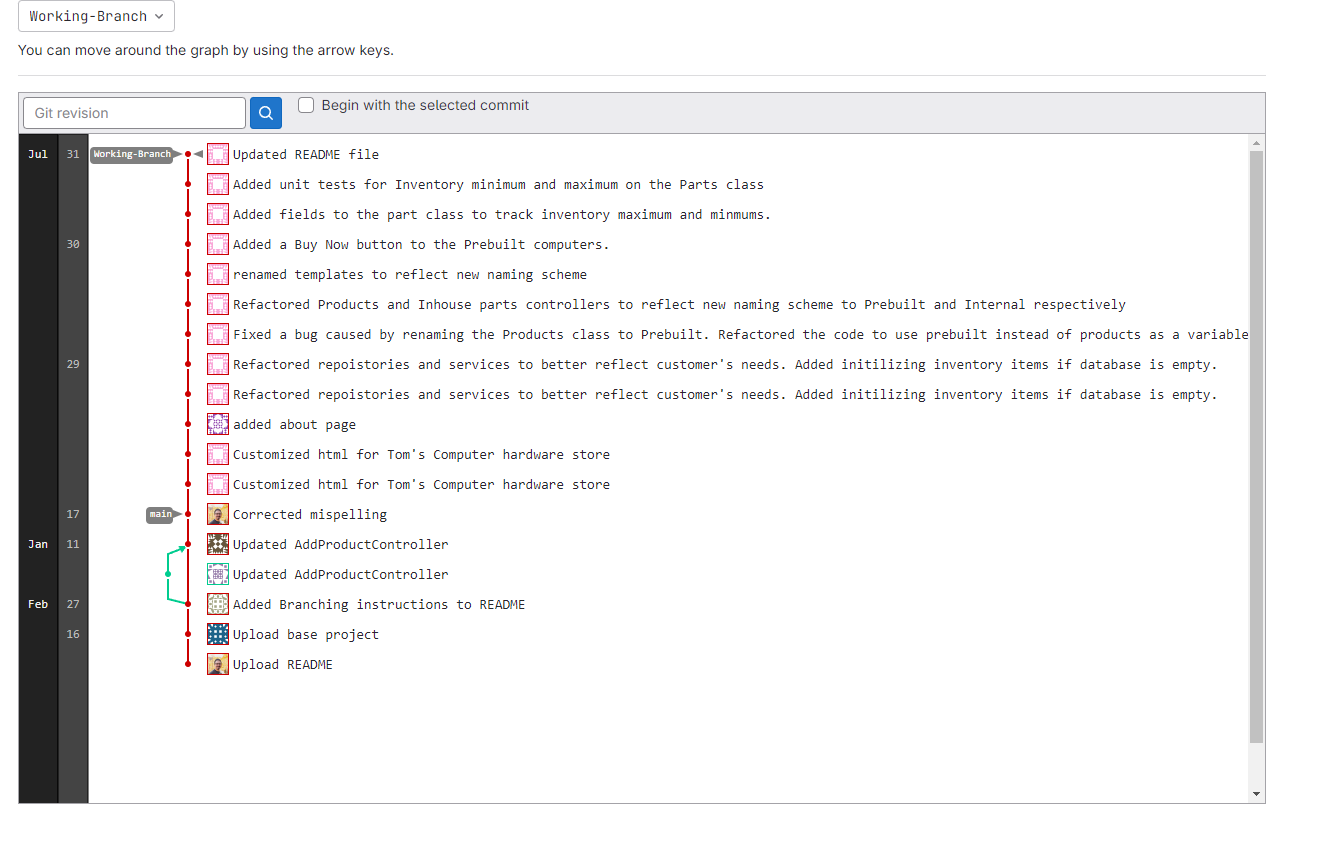
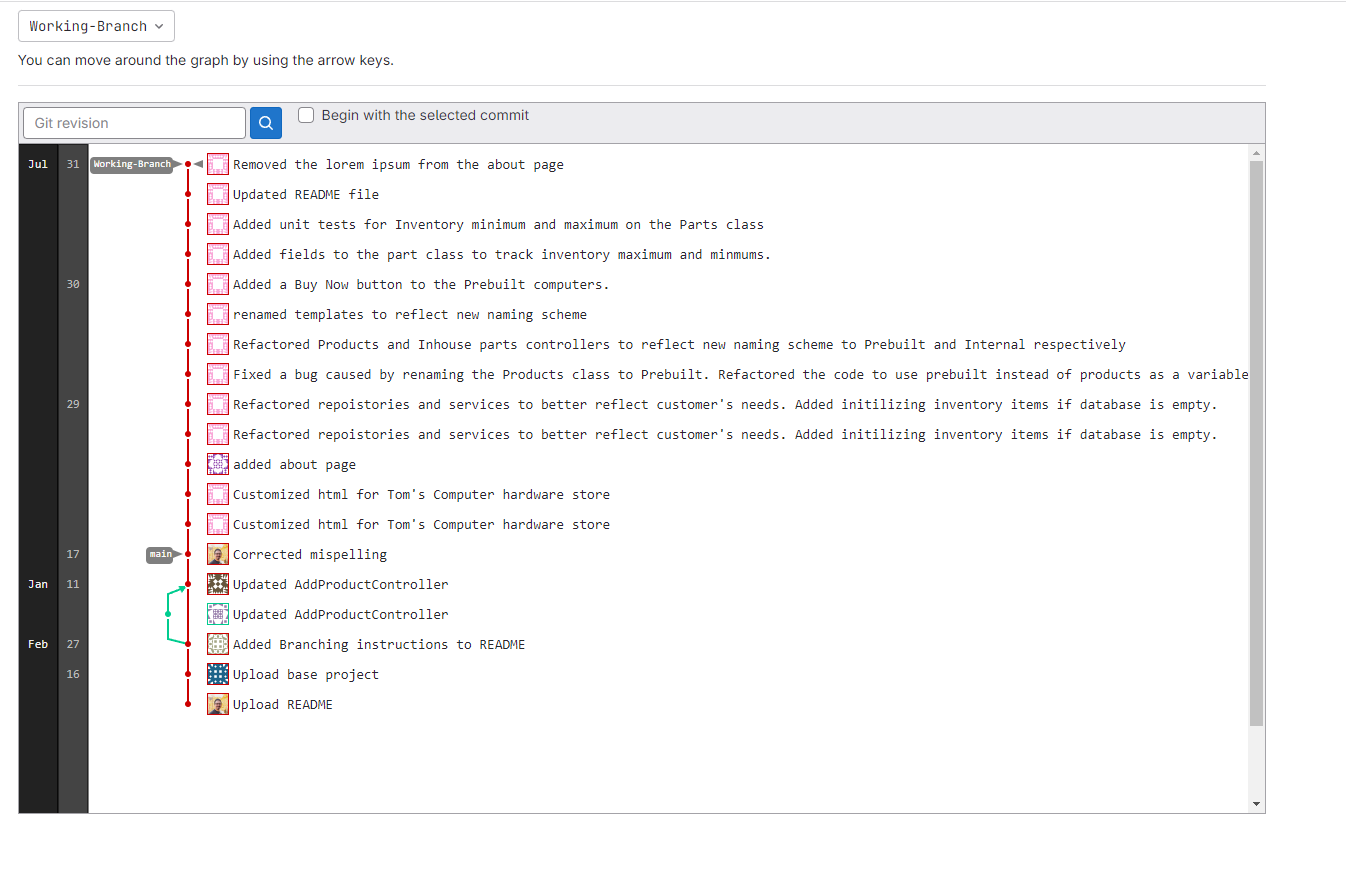
Removed the lorem ipsum from the about page

diff --git a/src/main/resources/templates/about.html b/src/main/resources/templates/about.html
@@ -30,7 +30,7 @@
     <h1 style="text-align: center; ">About</h1>
     <p style="line-height: 2;">
         We are a computer hardware store that cares about our customers. We carry every computer part under the sun. If you need it we got it.
-        Our team's #1 priority is customer satisfaction and we do anything we can to make sure you are happy. Got questions? We can answer them with our knowledgabel supoport staff.
+        Our team's #1 priority is customer satisfaction and we do anything we can to make sure you are happy. Got questions? We can answer them with our knowledgable supoport staff.
     </p>
     <img th:src="@{images/computer.jpg}" style="width: 25vw;"/>
     <p style="line-height: 2;">
